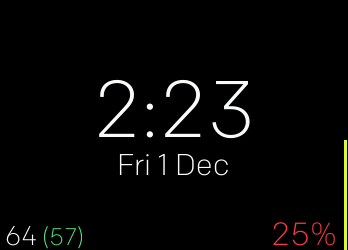
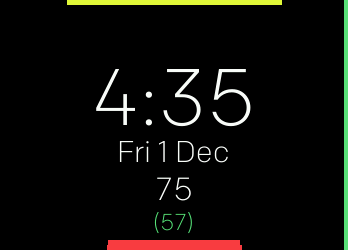
Added distance and calories as horizontal bars. Calories at the top, distance across the bottom, just above the steps. Bars are now centralized.

diff --git a/app/index.js b/app/index.js
@@ -27,6 +27,8 @@ function updateClock() {
   elDate.text = `${util.getDay3(dtDate.getDay())} ${dtDate.getDate()} ${util.getMonth3(dtDate.getMonth())}`;
   
   updateHorizontalBar('steps');
+  updateHorizontalBar('distance');
+  updateHorizontalBar('calories');
   updateVerticalBar('elevationGain');
   updateVerticalBar('activeMinutes');
   updateBattery();
@@ -74,7 +76,7 @@ function updateVerticalBar(sTodayStat)
   var iScreenHeight = elBG.getBBox().height;
   var iBarHeight = Math.floor(iPercent * (iScreenHeight/100));
   el.height = iBarHeight;
-  el.y = iScreenHeight-iBarHeight;
+  el.y = iScreenHeight/2-iBarHeight/2;
   
   colourStat(el, iPercent);
 }
@@ -90,6 +92,7 @@ function updateHorizontalBar(sTodayStat)
   var iScreenWidth = elBG.getBBox().width;
   var iBarWidth = Math.floor(iPercent * (iScreenWidth/100));
   el.width = iBarWidth;
+  el.x = iScreenWidth/2-iBarWidth/2;
   
   colourStat(el, iPercent);
 }
@@ -100,16 +103,16 @@ function colourStat(el, iPercentage)
   let iHours = dtDate.getHours();
   let iDayPercent = Math.floor(iHours/24*100);
 
-  if (iPercentage > iDayPercent)
+  if (iPercentage > 100)
   {
-    el.style.fill = "fb-cyan";
+    el.style.fill = "fb-mint";
   }
   else
   {
     let iPercentDiff = iDayPercent - iPercentage;
     if (iPercentDiff < 0)
     {
-      el.style.fill = "fb-mint";
+      el.style.fill = "fb-cyan";
     }
     else if (iPercentDiff < 10)
     {
